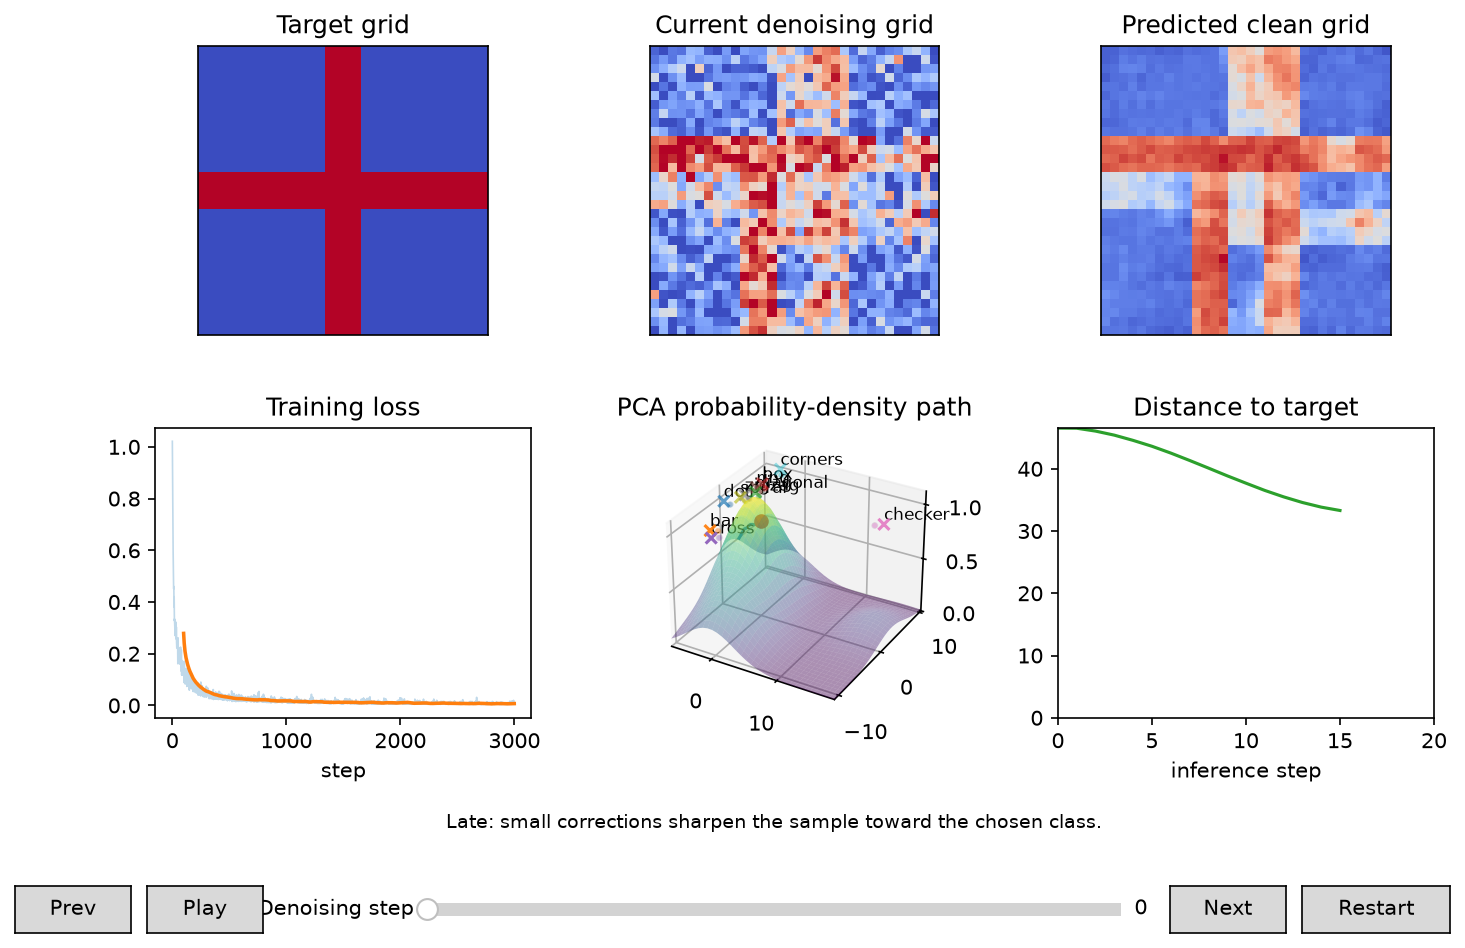
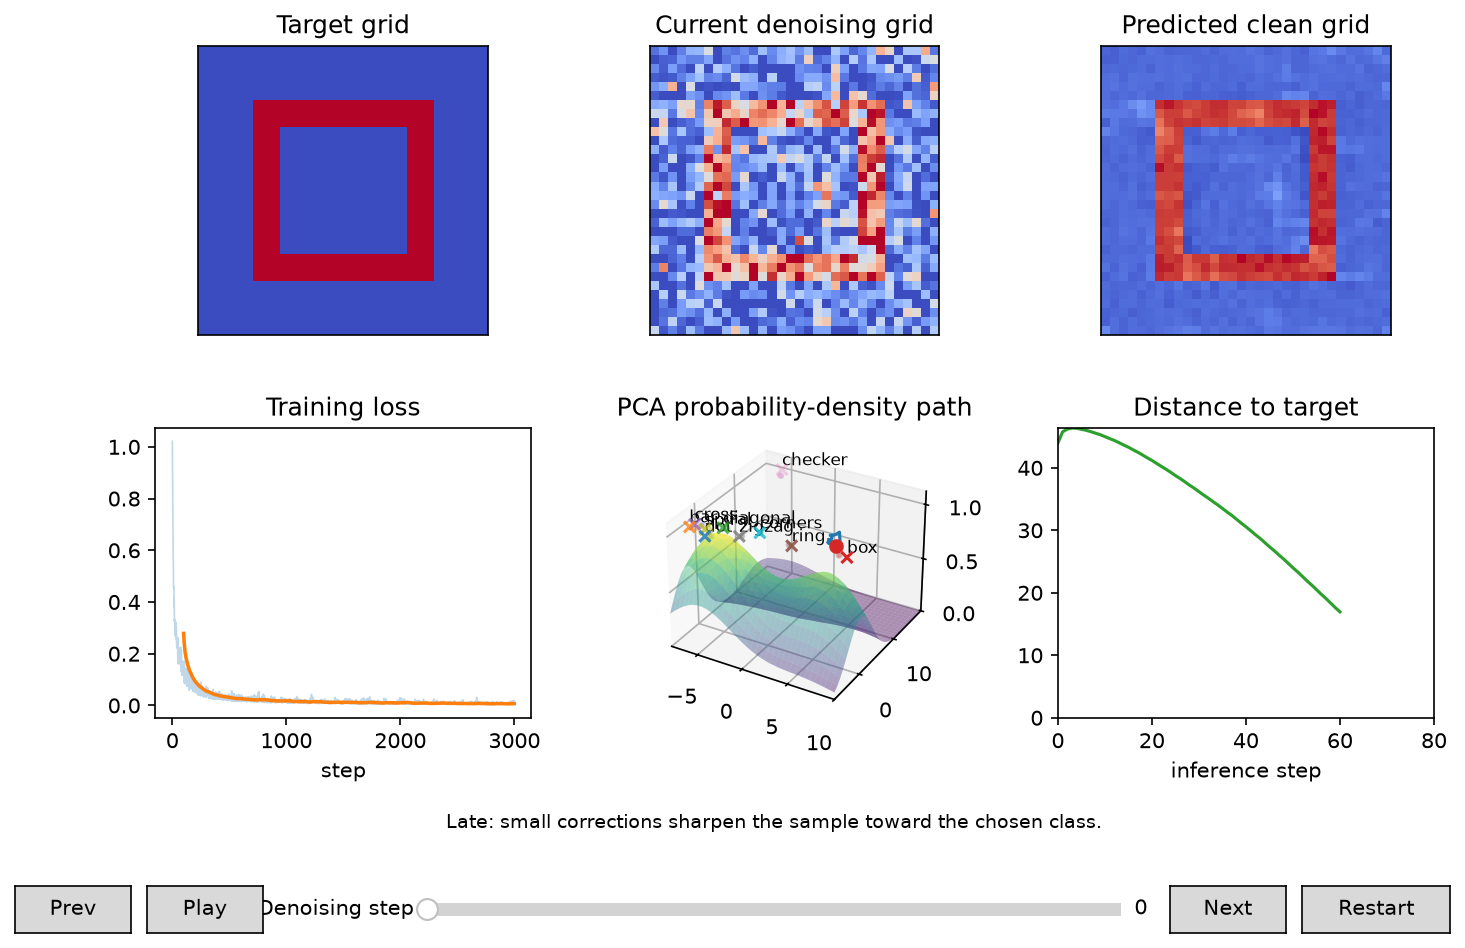
Show stronger generated sample in README

diff --git a/README.md b/README.md
@@ -4,7 +4,9 @@ Learn diffusion by training a small class-conditional model on ten synthetic `32
 
 ## Interactive Lesson
 
-![Current six-panel diffusion lesson with denoising controls](assets/interactive-preview.png)
+![Six-panel diffusion lesson generating a box close to its target](assets/interactive-preview.png)
+
+_A real checkpoint sample: `box`, seed `3`, DDIM with 80 steps, guidance `1.0`. The preview is paused late in denoising so the remaining noise and the cleaner `x_0` prediction can be compared._
 
 The top row compares the target, current noisy state `x_t`, and predicted clean state `x_0`. The bottom row connects training loss, the sample's path through PCA space, and distance to the target. Use the controls to inspect any recorded denoising step.
 